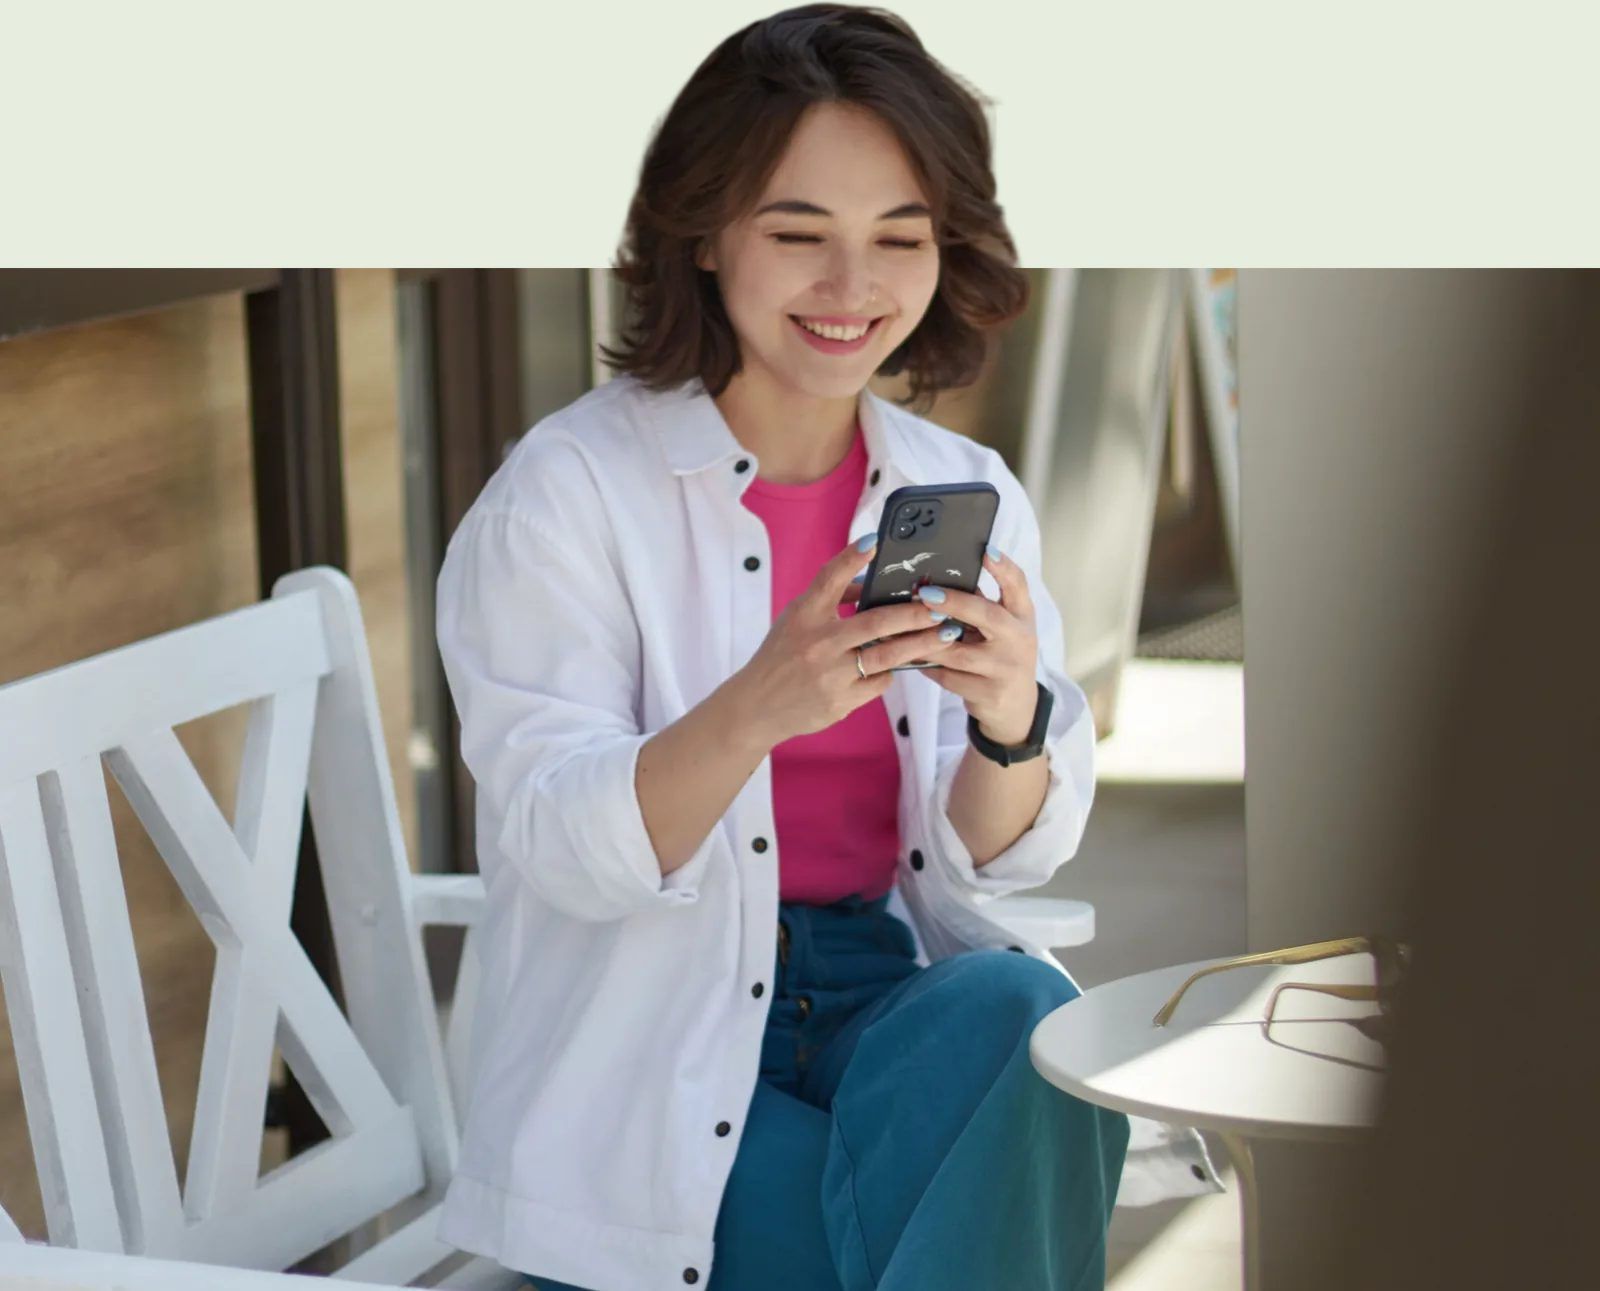
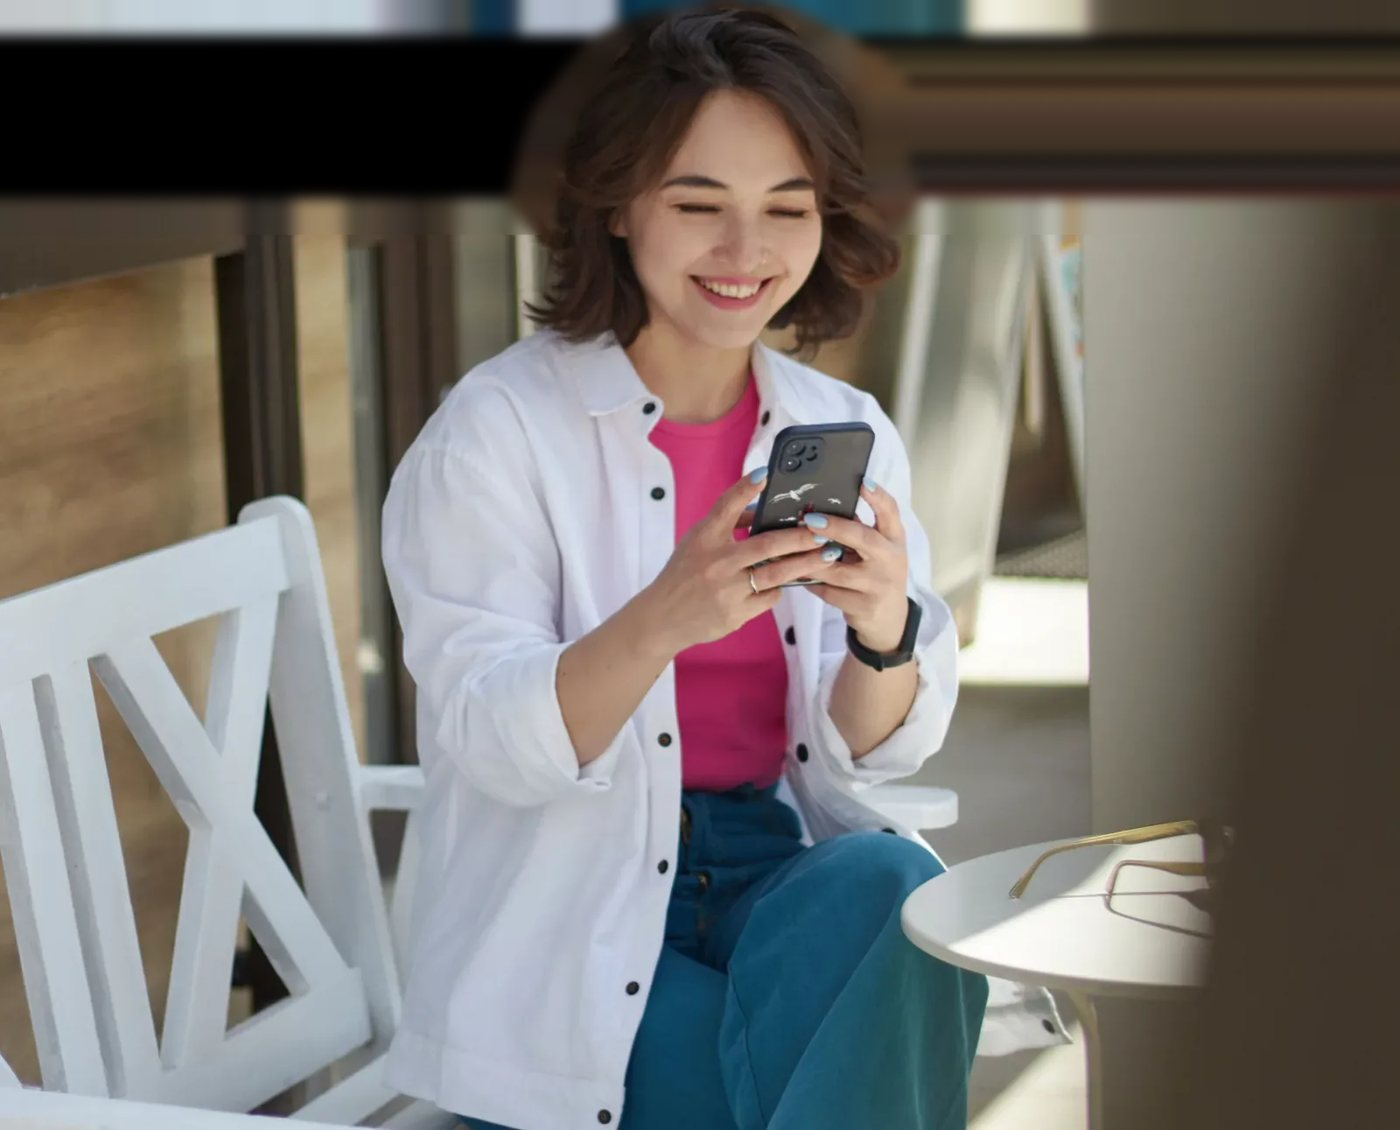
fix(home): the portrait is a whole photo again — no line across her face
The cutout's opaque area starts at 21% of the image height, which is her
forehead, so any edge drawn there — a clip, a rounded frame, a mask — runs a line
straight across her face. Keeping the head "outside the frame" was only possible
by drawing that edge, and it is what she has been complaining about.

The transparent band is now filled with a colour continuation of its neighbours
(iterative dilation from the opaque pixels, softened with a 7px blur, then
composited back so the subject is untouched), and the result is a complete
1400x1130 JPEG (114KB). The portrait is one rounded image: no clip, no layers, no
seam — and 114KB versus 56KB is the only cost.

The two-layer trick, the corner tiles and the clip-path seam fixes are all gone
with it. The cutout original stays in assets if the frame treatment is ever
wanted back.

Gate green: 84 routes, 0 failures.

Changed region(s): [[0.0, 0.0, 1.0, 0.2168]]

diff --git a/src/pages/CommunityHub.jsx b/src/pages/CommunityHub.jsx
@@ -1,8 +1,9 @@
 import { ArrowUpRight } from 'lucide-react';
 import { Link } from 'react-router-dom';
 import { useLanguage, withLanguage } from '../components/LanguageContext';
-/* 人物图是专门做的扣图：顶部 21% 是透明通道，她的头露在照片上沿之外。 */
-import peopleImage from '../assets/community/community-research-collage-web.webp';
+/* 人物图用完整版：透明通道已用周围的模糊色补上，所以照片是整块的，
+   不再有一道横线压在她的额头上；扣图原版仍保留在同一个目录。 */
+import peopleImage from '../assets/community/community-research-portrait.jpg';
 
 /* 首页的「人物页」：一句主张 + 一段说明 + 大画面，没有别的层级。
    文案直接取视频那段（publicCopy.home.evidenceStatement / evidence），不另写。
@@ -42,8 +43,7 @@ export default function CommunityHub() {
           </div>
 
           <figure className="community-hub-portrait">
-            <img className="community-hub-portrait-photo" src={peopleImage} alt="" loading="lazy" decoding="async" />
-            <img className="community-hub-portrait-head" src={peopleImage} alt="" aria-hidden="true" />
+            <img src={peopleImage} alt="" loading="lazy" decoding="async" />
           </figure>
         </div>
       </div>

diff --git a/src/pages/WorkspaceSurfaceTheme.css b/src/pages/WorkspaceSurfaceTheme.css
@@ -1002,12 +1002,9 @@
 .community-hub-text-action { display: inline-flex; align-items: center; gap: 7px; border-bottom: 1px solid rgba(20, 26, 23, .32); color: #141a17; font-family: var(--font-sans); font-size: 13px; font-weight: 600; padding-bottom: 3px; text-decoration: none; }
 .community-hub-text-action:hover { border-color: #141a17; }
 
-/* 人物：一张图两层。照片层裁到照片自己的矩形（四周 18px 圆角），
-   头那层不裁，所以她的头部仍然在照片上沿之外 —— 不做任何填色，也就没有接缝线。 */
-.community-hub-portrait { position: relative; width: 100%; margin: 0; }
-.community-hub-portrait img { display: block; width: 100%; height: auto; }
-.community-hub-portrait-photo { clip-path: inset(20% 0 0 0 round 18px); }
-.community-hub-portrait-head { position: absolute; top: 0; left: 0; clip-path: inset(0 0 79.4% 0); }
+/* 人物：整块照片 + 18px 圆角（图已经是完整不透明的，没有裁切线）。 */
+.community-hub-portrait { width: 100%; margin: 0; }
+.community-hub-portrait img { display: block; width: 100%; height: auto; border-radius: 18px; }
 
 @media (max-width: 980px) {
   .community-hub { padding: 0 10px; }
